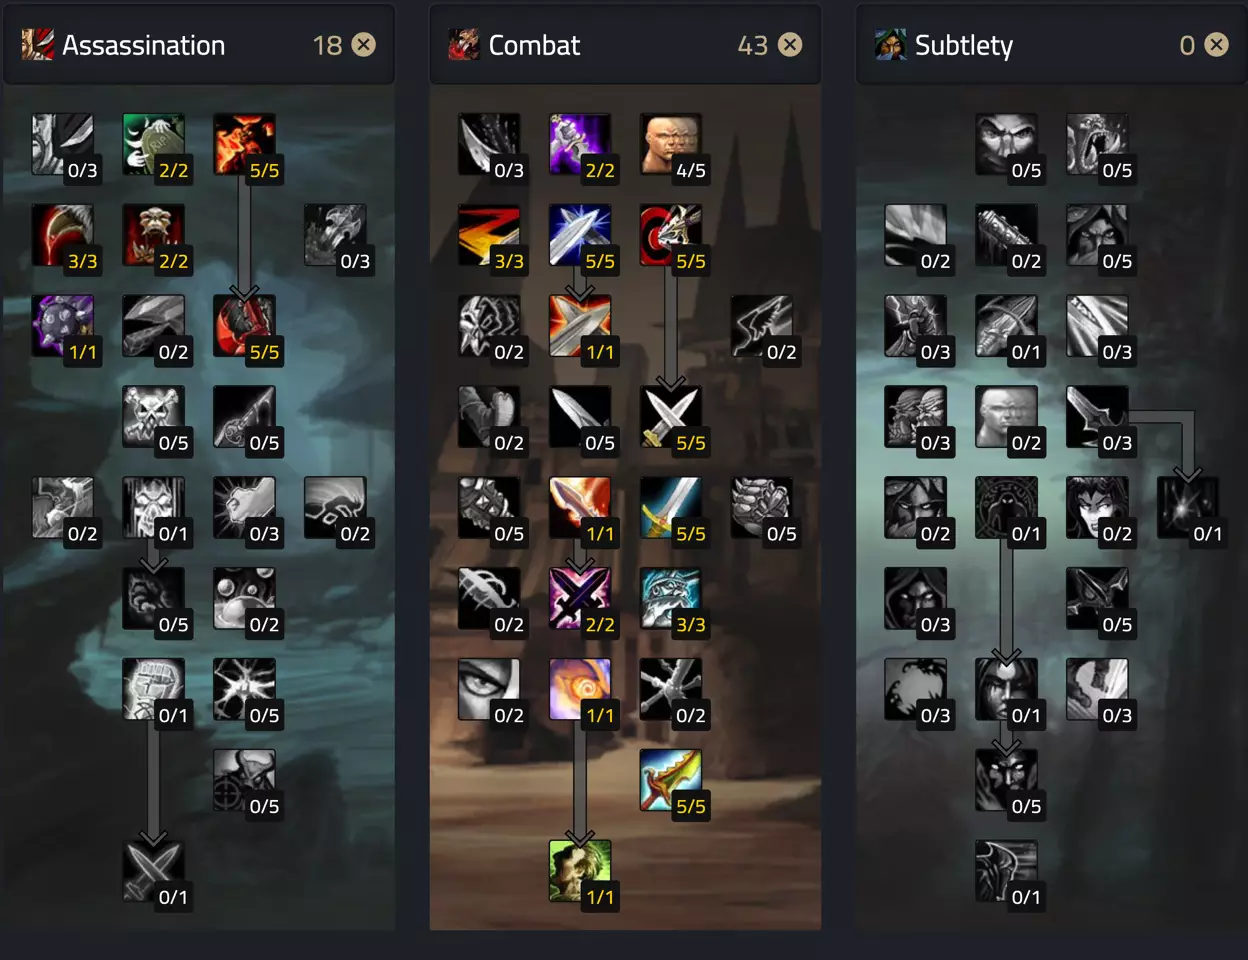
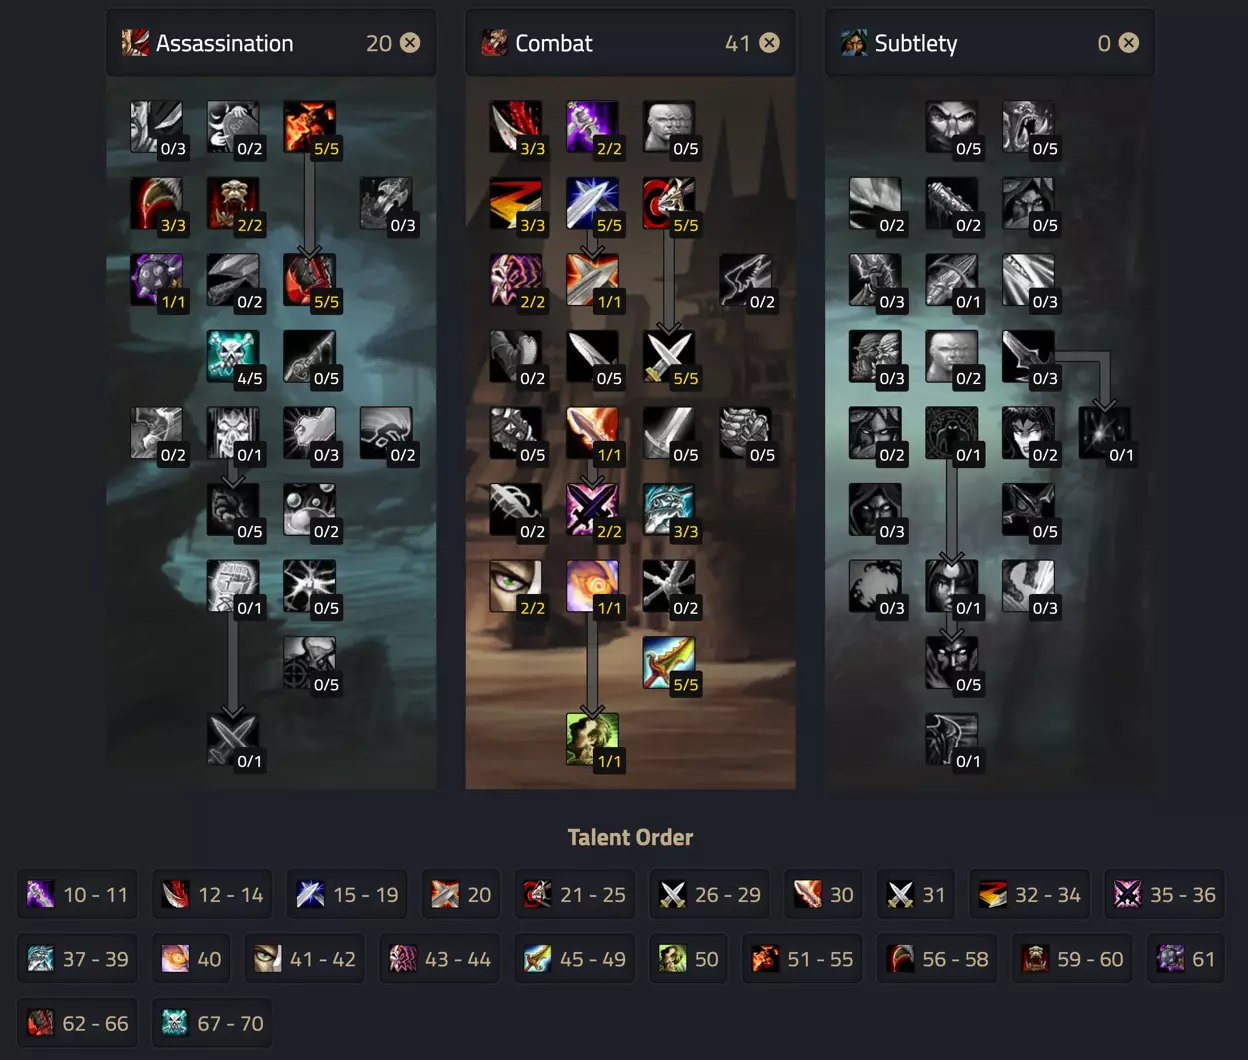
updated rogue image and link

diff --git a/index.html b/index.html
@@ -203,7 +203,7 @@
   <!-- Rogue -->
   <section id="rogue">
     <h2>
-      <a href="https://www.warcrafttavern.com/tbc/tools/talent-calculator/rogue#?t=B1122244455555666669eeeeehiiiiillmmmpuuuuuxA1122222554844aaaaaB2" target="_blank" rel="noopener noreferrer">
+      <a href="https://www.warcrafttavern.com/tbc/tools/talent-calculator/rogue#?t=B1100055555966666eeeehe444llmmmpoo88uuuuuBxA22222444558aaaaadddd" target="_blank" rel="noopener noreferrer">
         Combat Rogue Build
       </a>
     </h2>
